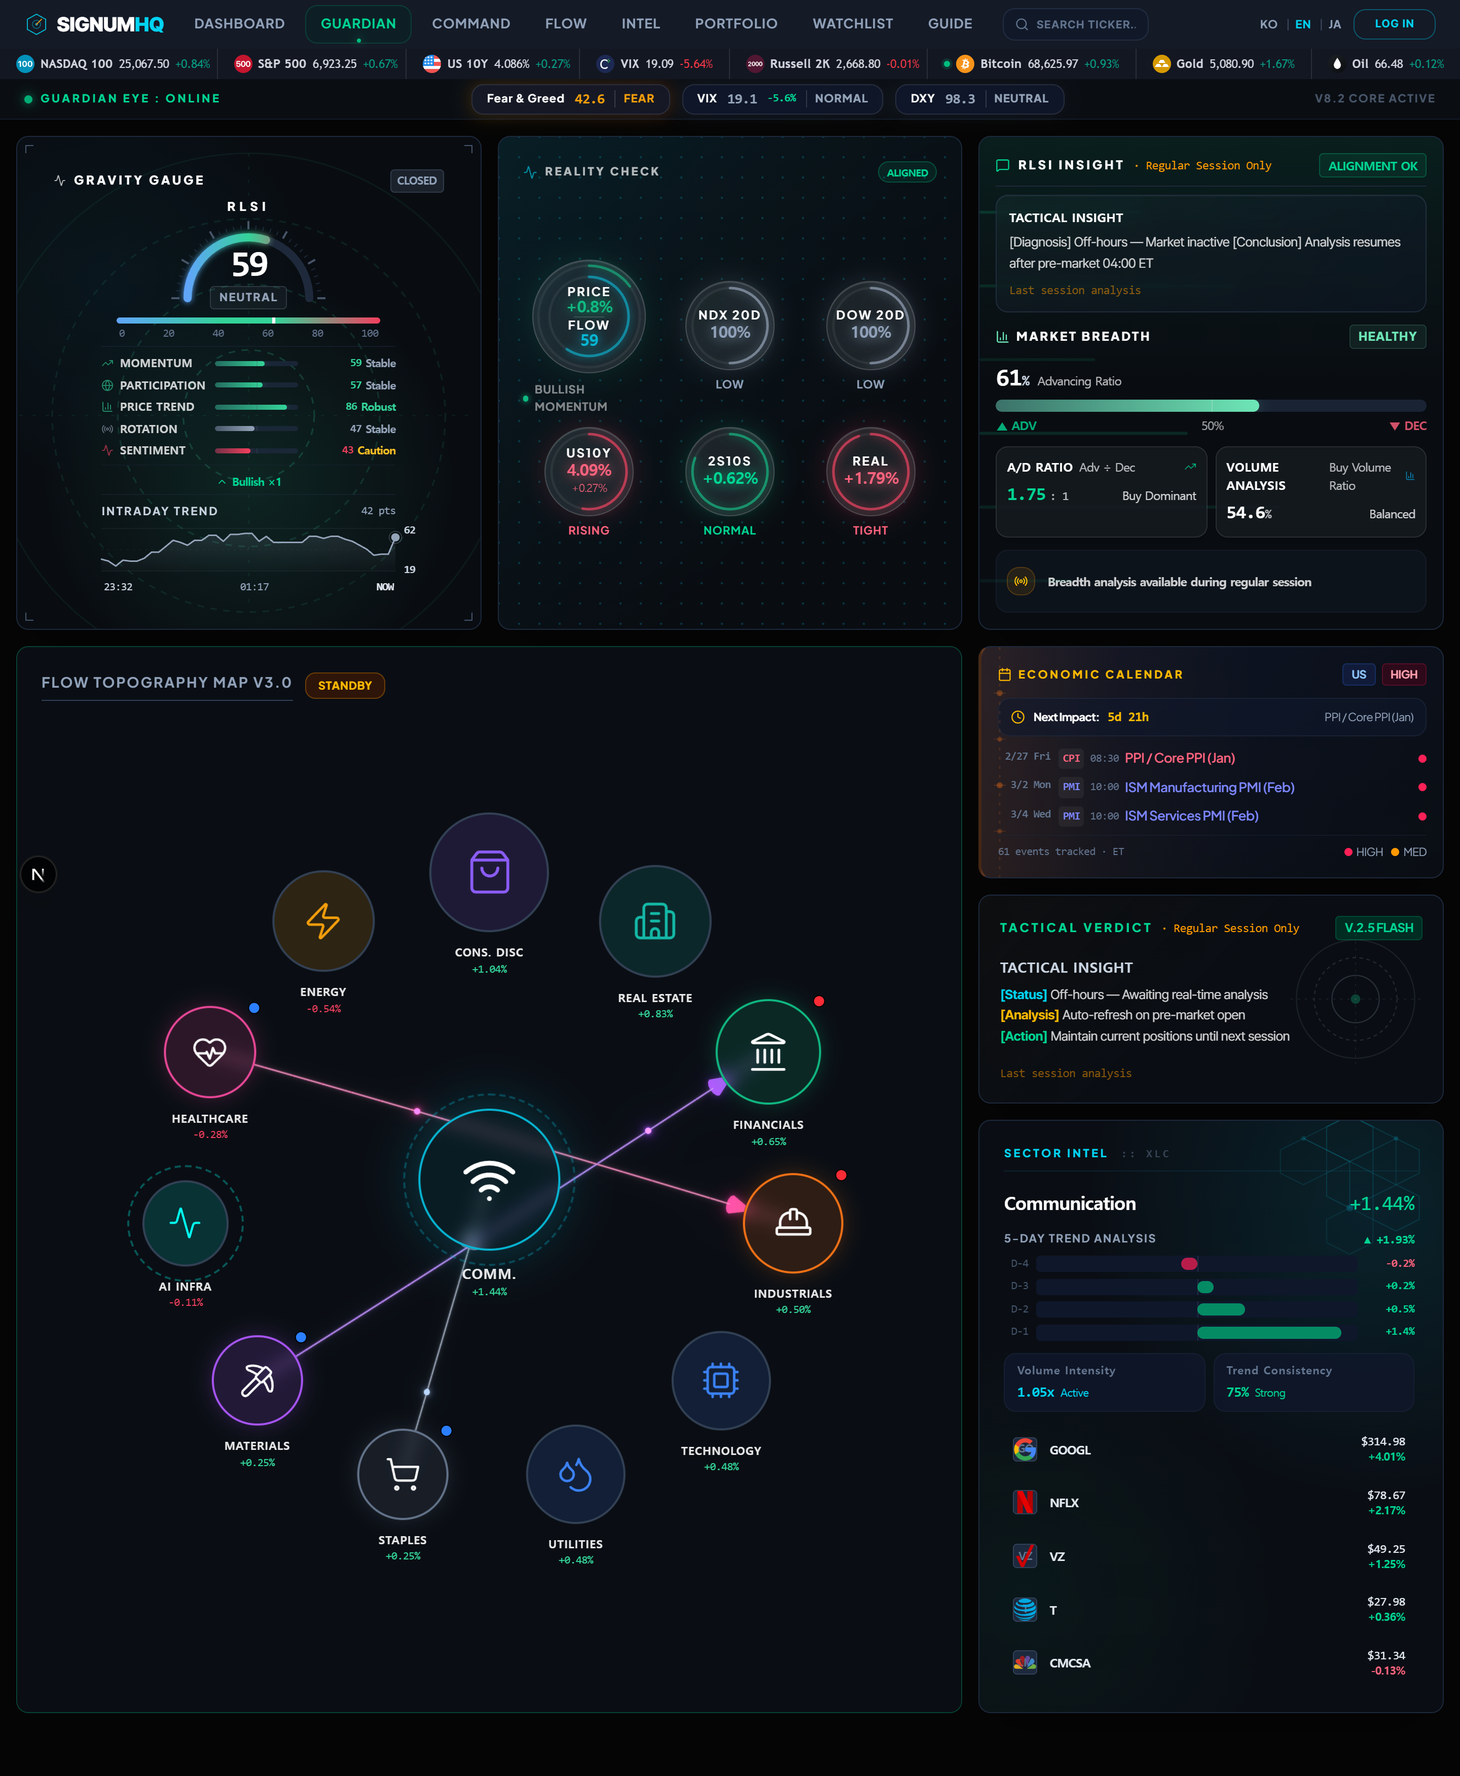
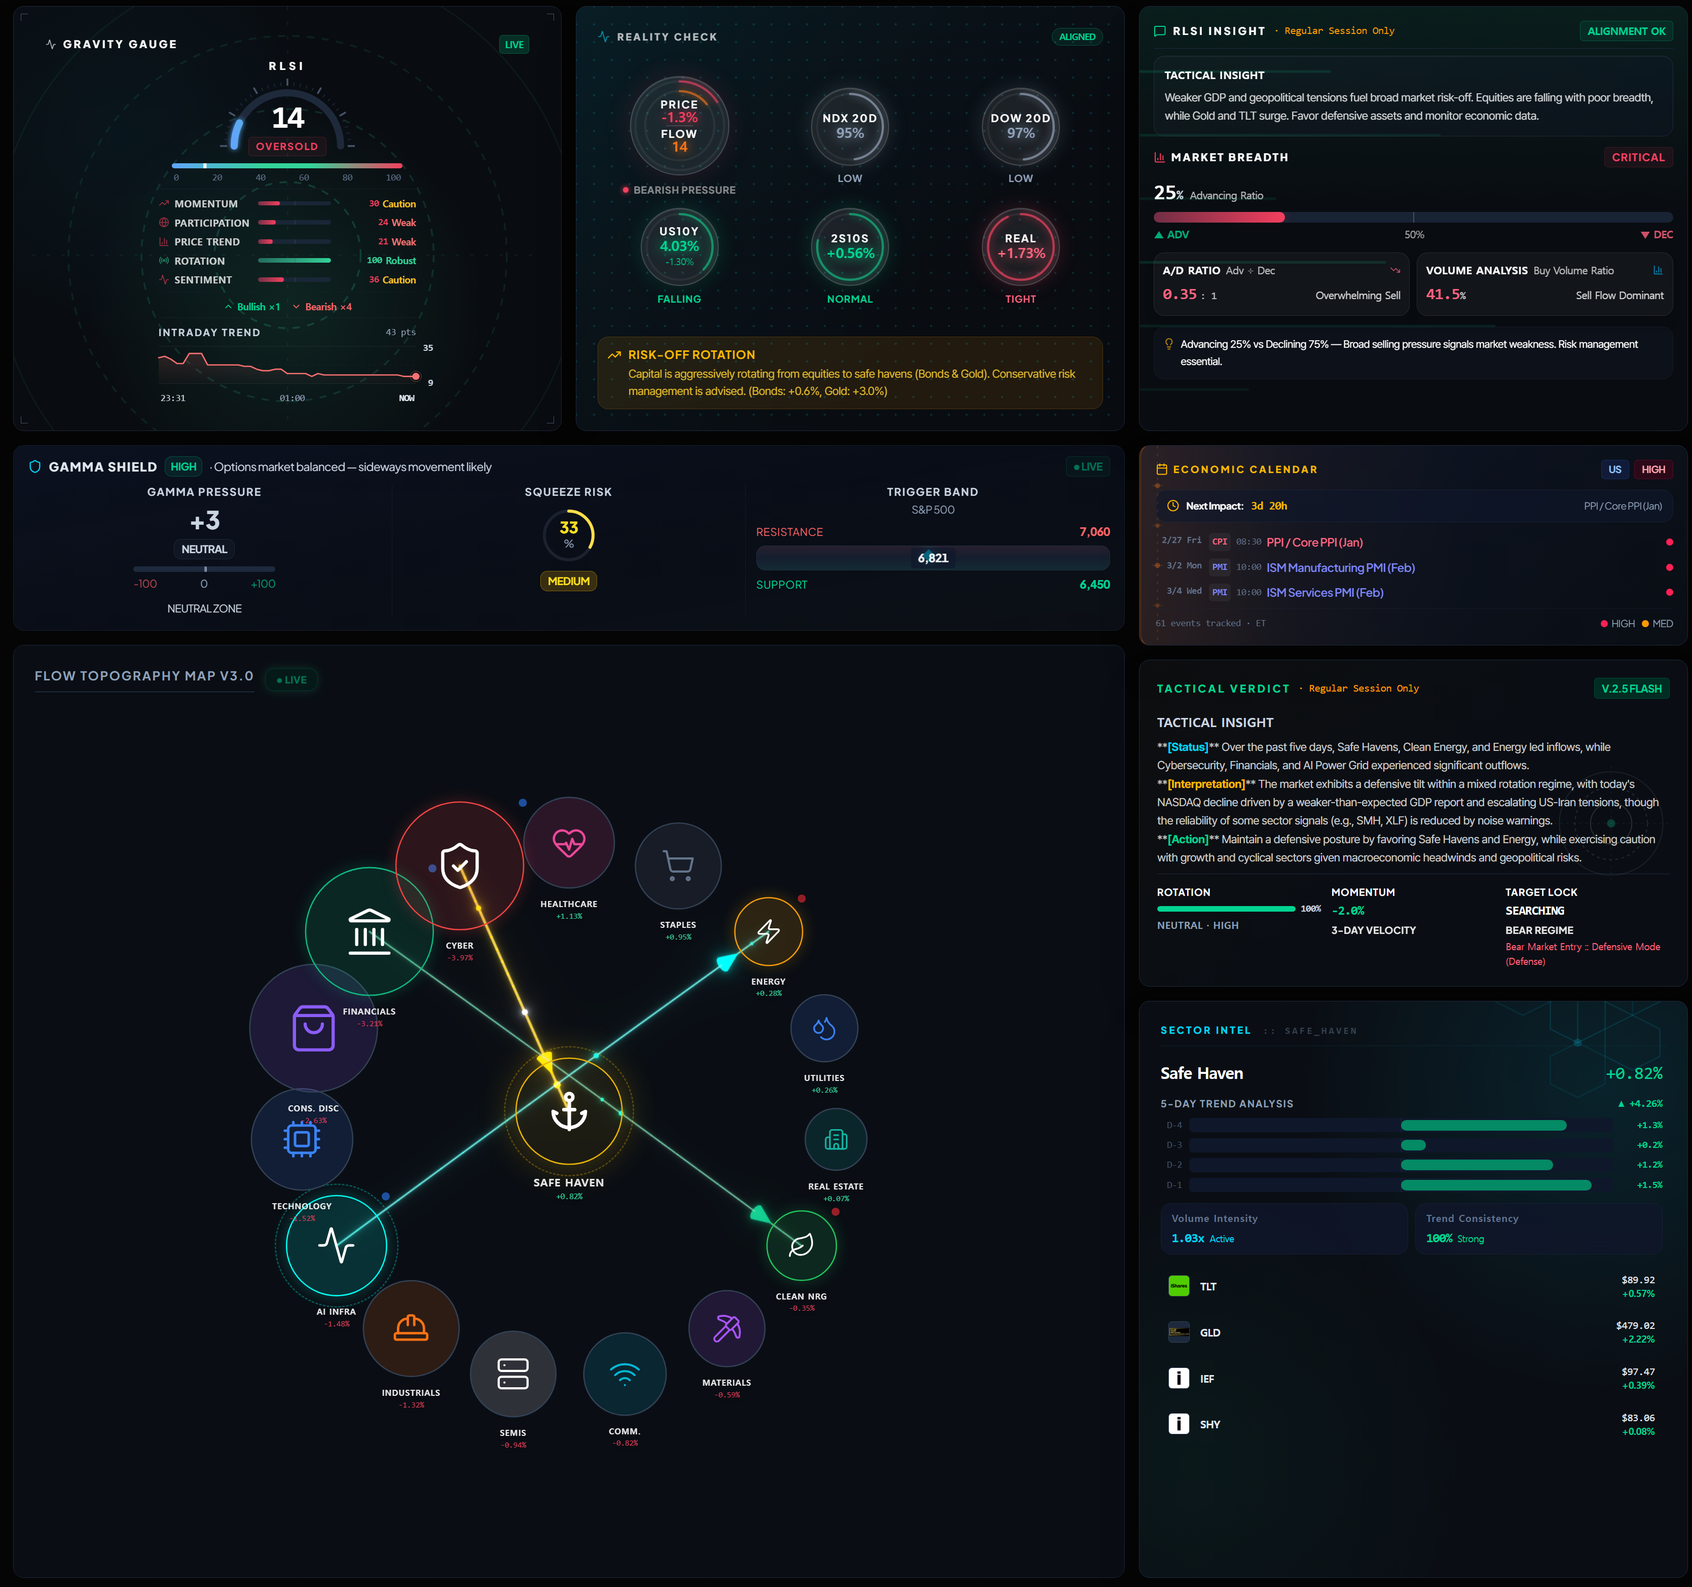
feat: GAMMA SHIELD tutorial at top of Guardian guide + updated hero screenshots (ko/en/ja)

diff --git a/src/app/[locale]/how-it-works/guardian/page.tsx b/src/app/[locale]/how-it-works/guardian/page.tsx
@@ -57,6 +57,225 @@ export default async function GuardianGuidePage({ params }: { params: Promise<{ 
             </section>
 
             {/* ═══════════════════════════════════════════════════════════ */}
+            {/* Section 1.5: GAMMA SHIELD™ — Critical Indicator           */}
+            {/* ═══════════════════════════════════════════════════════════ */}
+            <section className="space-y-5">
+                <div className="flex items-center justify-between">
+                    <div className="flex items-center gap-3">
+                        <div className="w-9 h-9 rounded-xl bg-gradient-to-br from-cyan-400 to-indigo-600 flex items-center justify-center shadow-lg shadow-cyan-500/25">
+                            <Shield size={18} className="text-white" />
+                        </div>
+                        <div>
+                            <h3 className="text-xl font-bold text-white">{t('gammaShield.title')}</h3>
+                            <p className="text-[13px] text-cyan-400 font-medium uppercase tracking-wider">Options-Based Volatility Shield</p>
+                        </div>
+                    </div>
+                    <span className="px-2.5 py-1 rounded-full bg-rose-500/20 border border-rose-500/30 text-xs font-bold text-rose-300">{t('gammaShield.badge')}</span>
+                </div>
+
+                <p className="text-[15px] text-slate-300 leading-relaxed">{t.rich('gammaShield.desc', richTags)}</p>
+
+                {/* ── GAMMA SHIELD SVG Mockup ── */}
+                <div className="rounded-2xl bg-gradient-to-br from-slate-900/70 via-slate-900/50 to-slate-800/30 border border-slate-700/30 overflow-hidden">
+                    {/* Header */}
+                    <div className="flex items-center justify-between px-5 pt-4 pb-2">
+                        <div className="flex items-center gap-2">
+                            <Shield size={16} className="text-cyan-400" />
+                            <span className="text-[14px] font-black tracking-[0.08em] text-slate-200">GAMMA SHIELD</span>
+                            <span className="text-[11px] font-bold px-1.5 py-0.5 rounded-sm border text-emerald-400 border-emerald-500/30 bg-emerald-500/10">HIGH</span>
+                            <span className="text-[12px] text-slate-300">· {t('gammaShield.sampleInsight')}</span>
+                        </div>
+                        <span className="text-[11px] font-bold px-2 py-0.5 rounded border text-emerald-400 border-emerald-500/30 bg-emerald-500/10 animate-pulse">● LIVE</span>
+                    </div>
+
+                    {/* Content — 3 Columns */}
+                    <div className="grid grid-cols-3 gap-4 px-5 pb-5 pt-1">
+                        {/* Col 1: GEX Pressure */}
+                        <div className="flex flex-col items-center gap-2">
+                            <span className="text-[11px] font-bold tracking-[0.10em] text-slate-300 uppercase">Gamma Pressure</span>
+                            <div className="text-[28px] font-black text-slate-300 tabular-nums leading-none">+3</div>
+                            <div className="text-[11px] font-bold px-2 py-0.5 rounded-sm border text-slate-300 border-slate-600/30 bg-slate-600/10">NEUTRAL</div>
+                            {/* Mini gauge bar */}
+                            <div className="w-full max-w-[140px]">
+                                <div className="relative h-[5px] rounded-full bg-slate-800 overflow-hidden">
+                                    <div className="absolute h-full rounded-full bg-gradient-to-r from-slate-500 to-slate-400" style={{ left: '50%', width: '1.5%' }} />
+                                    <div className="absolute left-1/2 top-0 w-[1px] h-full bg-slate-500/60" />
+                                </div>
+                                <div className="flex justify-between mt-1">
+                                    <span className="text-[10px] text-red-400/70">-100</span>
+                                    <span className="text-[10px] text-slate-500">0</span>
+                                    <span className="text-[10px] text-emerald-400/70">+100</span>
+                                </div>
+                            </div>
+                            <span className="text-[11px] text-slate-400">NEUTRAL ZONE</span>
+                        </div>
+
+                        {/* Col 2: Squeeze Risk */}
+                        <div className="flex flex-col items-center gap-2 border-x border-slate-700/25">
+                            <span className="text-[11px] font-bold tracking-[0.10em] text-slate-300 uppercase">Squeeze Risk</span>
+                            <div className="relative w-[60px] h-[60px]">
+                                <svg width="60" height="60" viewBox="0 0 56 56">
+                                    <circle cx="28" cy="28" r="24" fill="none" stroke="rgba(100,116,139,0.2)" strokeWidth="3" />
+                                    <circle cx="28" cy="28" r="24" fill="none" stroke="#fde047" strokeWidth="3"
+                                        strokeLinecap="round" strokeDasharray="150.8" strokeDashoffset="100.5"
+                                        transform="rotate(-90 28 28)" />
+                                </svg>
+                                <div className="absolute inset-0 flex flex-col items-center justify-center">
+                                    <span className="text-[16px] font-black text-yellow-300 tabular-nums leading-none">33</span>
+                                    <span className="text-[10px] text-slate-400">%</span>
+                                </div>
+                            </div>
+                            <div className="text-[11px] font-bold px-2 py-0.5 rounded-sm border bg-yellow-500/20 border-yellow-500/40">
+                                <span className="text-yellow-300">MEDIUM</span>
+                            </div>
+                        </div>
+
+                        {/* Col 3: Trigger Band */}
+                        <div className="flex flex-col gap-1.5">
+                            <span className="text-[11px] font-bold tracking-[0.10em] text-slate-300 uppercase text-center">Trigger Band</span>
+                            <span className="text-[10px] text-slate-400 text-center -mt-1">S&P 500</span>
+                            <div className="flex items-center justify-between">
+                                <span className="text-[11px] text-red-400 tracking-wide">RESISTANCE</span>
+                                <span className="text-[12px] font-black text-red-400 tabular-nums">7,060</span>
+                            </div>
+                            <div className="relative h-[24px] rounded-md bg-slate-800/60 border border-slate-700/40 overflow-hidden">
+                                <div className="absolute inset-0 bg-gradient-to-t from-emerald-500/[0.08] via-transparent to-red-500/[0.08]" />
+                                <div className="absolute inset-0 flex items-center justify-center">
+                                    <span className="text-[12px] font-black text-white/90 tabular-nums bg-slate-900/60 px-2 py-0.5 rounded">6,830</span>
+                                </div>
+                            </div>
+                            <div className="flex items-center justify-between">
+                                <span className="text-[11px] text-emerald-400 tracking-wide">SUPPORT</span>
+                                <span className="text-[12px] font-black text-emerald-400 tabular-nums">6,450</span>
+                            </div>
+                        </div>
+                    </div>
+                </div>
+
+                {/* ── 3 Metric Deep Dive Cards ── */}
+                <div className="grid grid-cols-1 lg:grid-cols-3 gap-4">
+                    {/* GEX Pressure */}
+                    <div className={`${glassCard} ${glassBg}`}>
+                        <div className="absolute -right-6 -top-6 w-28 h-28 rounded-full bg-cyan-500/[0.05] blur-3xl pointer-events-none" />
+                        <div className="relative space-y-3">
+                            <div className="flex items-center gap-2">
+                                <div className="w-7 h-7 rounded-lg bg-gradient-to-br from-cyan-400 to-blue-600 flex items-center justify-center">
+                                    <Activity size={14} className="text-white" />
+                                </div>
+                                <h4 className="text-sm font-bold text-white">{t('gammaShield.gex.title')}</h4>
+                            </div>
+                            <p className="text-[13px] text-slate-300 leading-relaxed">{t.rich('gammaShield.gex.desc', richTags)}</p>
+                            <div className="grid grid-cols-3 gap-1.5">
+                                <div className="p-1.5 rounded-lg bg-emerald-900/20 border border-emerald-500/15 text-center">
+                                    <div className="text-[10px] font-bold text-emerald-400">+20 ~ +100</div>
+                                    <div className="text-[11px] text-slate-300">{t('gammaShield.gex.long')}</div>
+                                </div>
+                                <div className="p-1.5 rounded-lg bg-slate-800/50 border border-white/5 text-center">
+                                    <div className="text-[10px] font-bold text-slate-300">-20 ~ +20</div>
+                                    <div className="text-[11px] text-slate-300">{t('gammaShield.gex.neutral')}</div>
+                                </div>
+                                <div className="p-1.5 rounded-lg bg-red-900/20 border border-red-500/15 text-center">
+                                    <div className="text-[10px] font-bold text-red-400">-100 ~ -20</div>
+                                    <div className="text-[11px] text-slate-300">{t('gammaShield.gex.short')}</div>
+                                </div>
+                            </div>
+                        </div>
+                    </div>
+
+                    {/* Squeeze Risk */}
+                    <div className={`${glassCard} ${glassBg}`}>
+                        <div className="absolute -left-6 -bottom-6 w-28 h-28 rounded-full bg-amber-500/[0.05] blur-3xl pointer-events-none" />
+                        <div className="relative space-y-3">
+                            <div className="flex items-center gap-2">
+                                <div className="w-7 h-7 rounded-lg bg-gradient-to-br from-amber-400 to-orange-600 flex items-center justify-center">
+                                    <Zap size={14} className="text-white" />
+                                </div>
+                                <h4 className="text-sm font-bold text-white">{t('gammaShield.squeeze.title')}</h4>
+                            </div>
+                            <p className="text-[13px] text-slate-300 leading-relaxed">{t.rich('gammaShield.squeeze.desc', richTags)}</p>
+                            <div className="grid grid-cols-2 gap-1.5">
+                                <div className="p-1.5 rounded-lg bg-emerald-900/20 border border-emerald-500/15 text-center">
+                                    <div className="text-[10px] font-bold text-emerald-400">0-20%</div>
+                                    <div className="text-[11px] text-slate-300">LOW</div>
+                                </div>
+                                <div className="p-1.5 rounded-lg bg-yellow-900/20 border border-yellow-500/15 text-center">
+                                    <div className="text-[10px] font-bold text-yellow-300">20-45%</div>
+                                    <div className="text-[11px] text-slate-300">MEDIUM</div>
+                                </div>
+                                <div className="p-1.5 rounded-lg bg-amber-900/20 border border-amber-500/15 text-center">
+                                    <div className="text-[10px] font-bold text-amber-400">45-70%</div>
+                                    <div className="text-[11px] text-slate-300">HIGH</div>
+                                </div>
+                                <div className="p-1.5 rounded-lg bg-red-900/20 border border-red-500/15 text-center">
+                                    <div className="text-[10px] font-bold text-red-400">70-100%</div>
+                                    <div className="text-[11px] text-slate-300">EXTREME</div>
+                                </div>
+                            </div>
+                        </div>
+                    </div>
+
+                    {/* Trigger Band */}
+                    <div className={`${glassCard} ${glassBg}`}>
+                        <div className="absolute -right-6 -bottom-6 w-28 h-28 rounded-full bg-emerald-500/[0.05] blur-3xl pointer-events-none" />
+                        <div className="relative space-y-3">
+                            <div className="flex items-center gap-2">
+                                <div className="w-7 h-7 rounded-lg bg-gradient-to-br from-emerald-400 to-teal-600 flex items-center justify-center">
+                                    <ArrowUpDown size={14} className="text-white" />
+                                </div>
+                                <h4 className="text-sm font-bold text-white">{t('gammaShield.trigger.title')}</h4>
+                            </div>
+                            <p className="text-[13px] text-slate-300 leading-relaxed">{t.rich('gammaShield.trigger.desc', richTags)}</p>
+                            <div className="space-y-1.5">
+                                <div className="flex items-center justify-between p-1.5 rounded-lg bg-red-900/15 border border-red-500/15">
+                                    <span className="text-[11px] text-red-400 font-bold">RESISTANCE</span>
+                                    <span className="text-[11px] text-slate-300">{t('gammaShield.trigger.resistDesc')}</span>
+                                </div>
+                                <div className="flex items-center justify-between p-1.5 rounded-lg bg-emerald-900/15 border border-emerald-500/15">
+                                    <span className="text-[11px] text-emerald-400 font-bold">SUPPORT</span>
+                                    <span className="text-[11px] text-slate-300">{t('gammaShield.trigger.supportDesc')}</span>
+                                </div>
+                            </div>
+                        </div>
+                    </div>
+                </div>
+
+                {/* ── Dynamic Insight Examples ── */}
+                <div className={`${glassCard} ${glassBg}`}>
+                    <div className="absolute -right-8 -top-8 w-36 h-36 rounded-full bg-indigo-500/[0.05] blur-3xl pointer-events-none" />
+                    <div className="relative space-y-3">
+                        <div className="flex items-center gap-2">
+                            <Info size={14} className="text-cyan-400" />
+                            <h4 className="text-sm font-bold text-white">{t('gammaShield.insightTitle')}</h4>
+                        </div>
+                        <p className="text-[13px] text-slate-300 leading-relaxed">{t.rich('gammaShield.insightDesc', richTags)}</p>
+                        <div className="space-y-2">
+                            {[
+                                { icon: '🟢', text: t('gammaShield.insightLong'), color: 'border-emerald-500/15 bg-emerald-900/10' },
+                                { icon: '🔴', text: t('gammaShield.insightShort'), color: 'border-red-500/15 bg-red-900/10' },
+                                { icon: '⚡', text: t('gammaShield.insightSqueeze'), color: 'border-amber-500/15 bg-amber-900/10' },
+                                { icon: '🎯', text: t('gammaShield.insightTrigger'), color: 'border-cyan-500/15 bg-cyan-900/10' },
+                            ].map(({ icon, text, color }, i) => (
+                                <div key={i} className={`p-2 rounded-lg border ${color} flex items-start gap-2`}>
+                                    <span className="text-sm shrink-0">{icon}</span>
+                                    <span className="text-[12px] text-slate-300 leading-relaxed">{text}</span>
+                                </div>
+                            ))}
+                        </div>
+                    </div>
+                </div>
+
+                {/* ── Trading Guide ── */}
+                <div className="p-3 rounded-lg bg-emerald-900/15 border border-emerald-500/20 space-y-1">
+                    <span className="text-[13px] font-bold text-emerald-400 flex items-center gap-1.5"><Shield size={13} />{t('gammaShield.tradingGuide')}</span>
+                    <div className="text-[13px] text-slate-300 leading-relaxed space-y-0.5">
+                        <p>• {t.rich('gammaShield.guide1', richTags)}</p>
+                        <p>• {t.rich('gammaShield.guide2', richTags)}</p>
+                        <p>• {t.rich('gammaShield.guide3', richTags)}</p>
+                    </div>
+                </div>
+            </section>
+
+            {/* ═══════════════════════════════════════════════════════════ */}
             {/* Section 2: Top Status Bar                                 */}
             {/* ═══════════════════════════════════════════════════════════ */}
             <section className="space-y-5">
